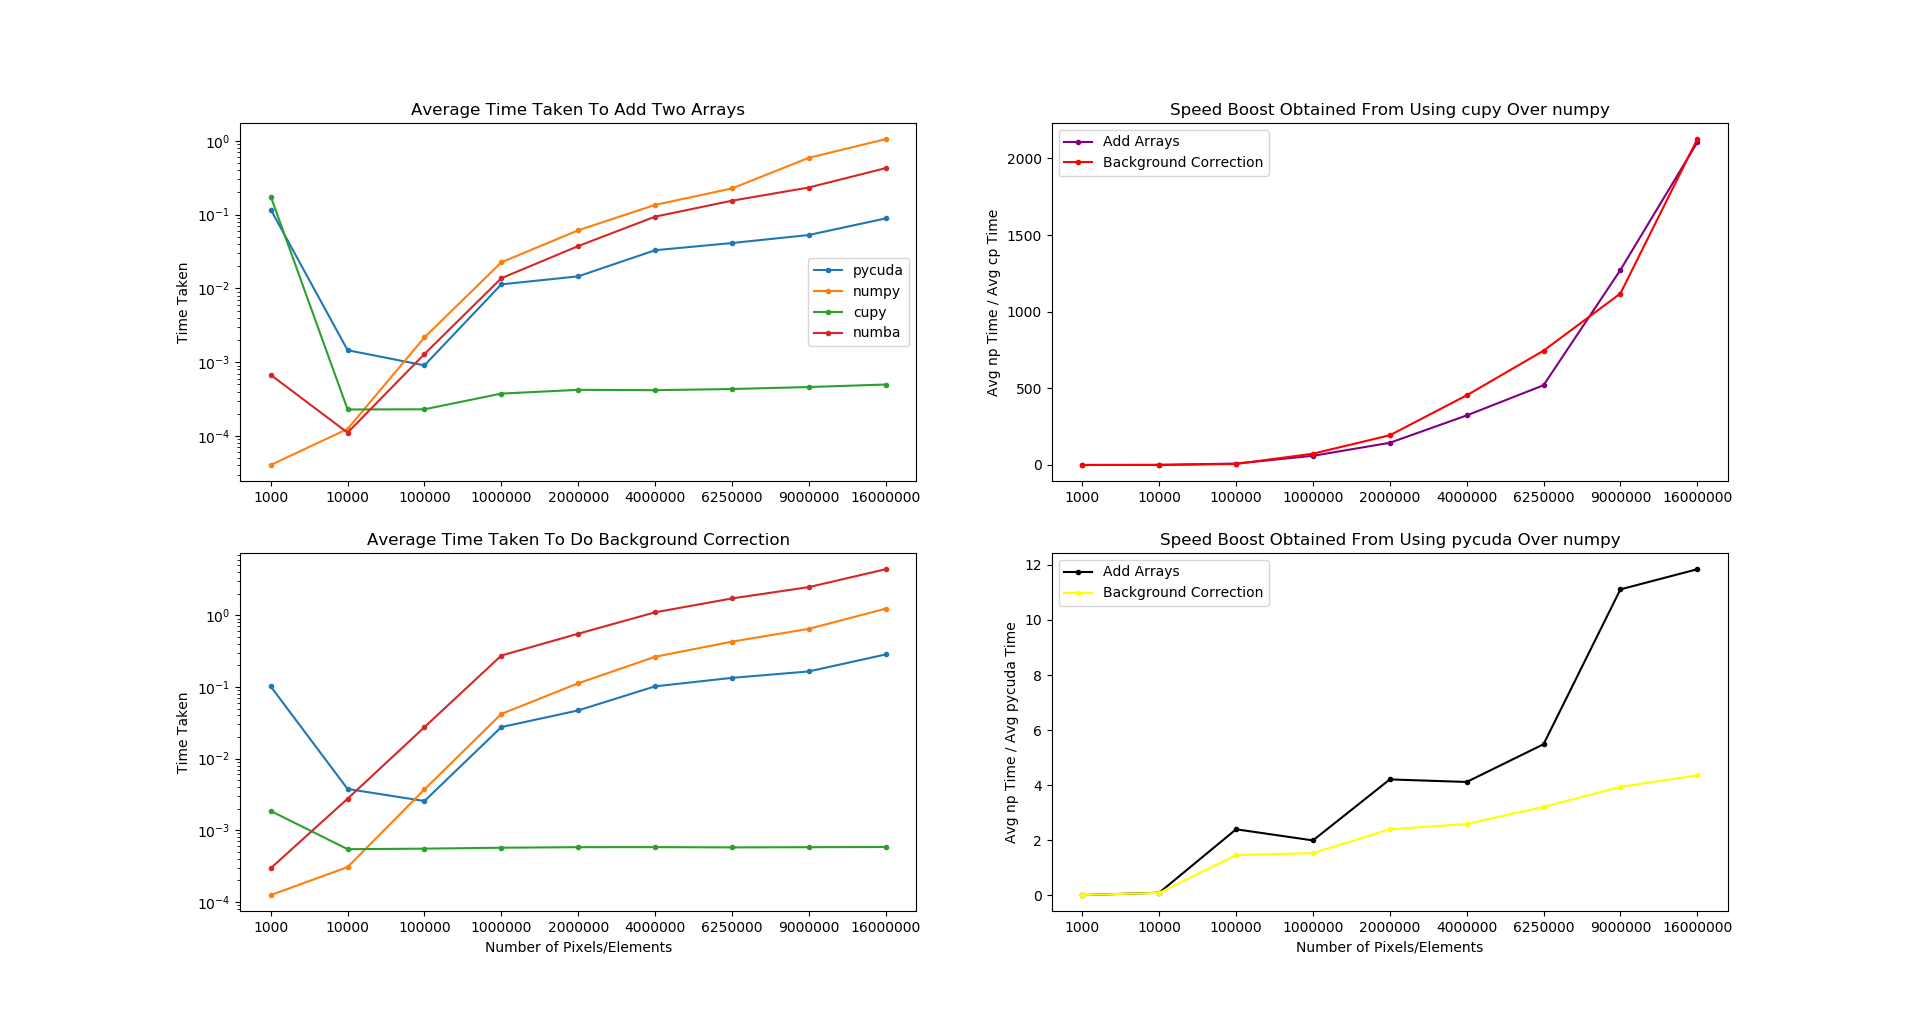
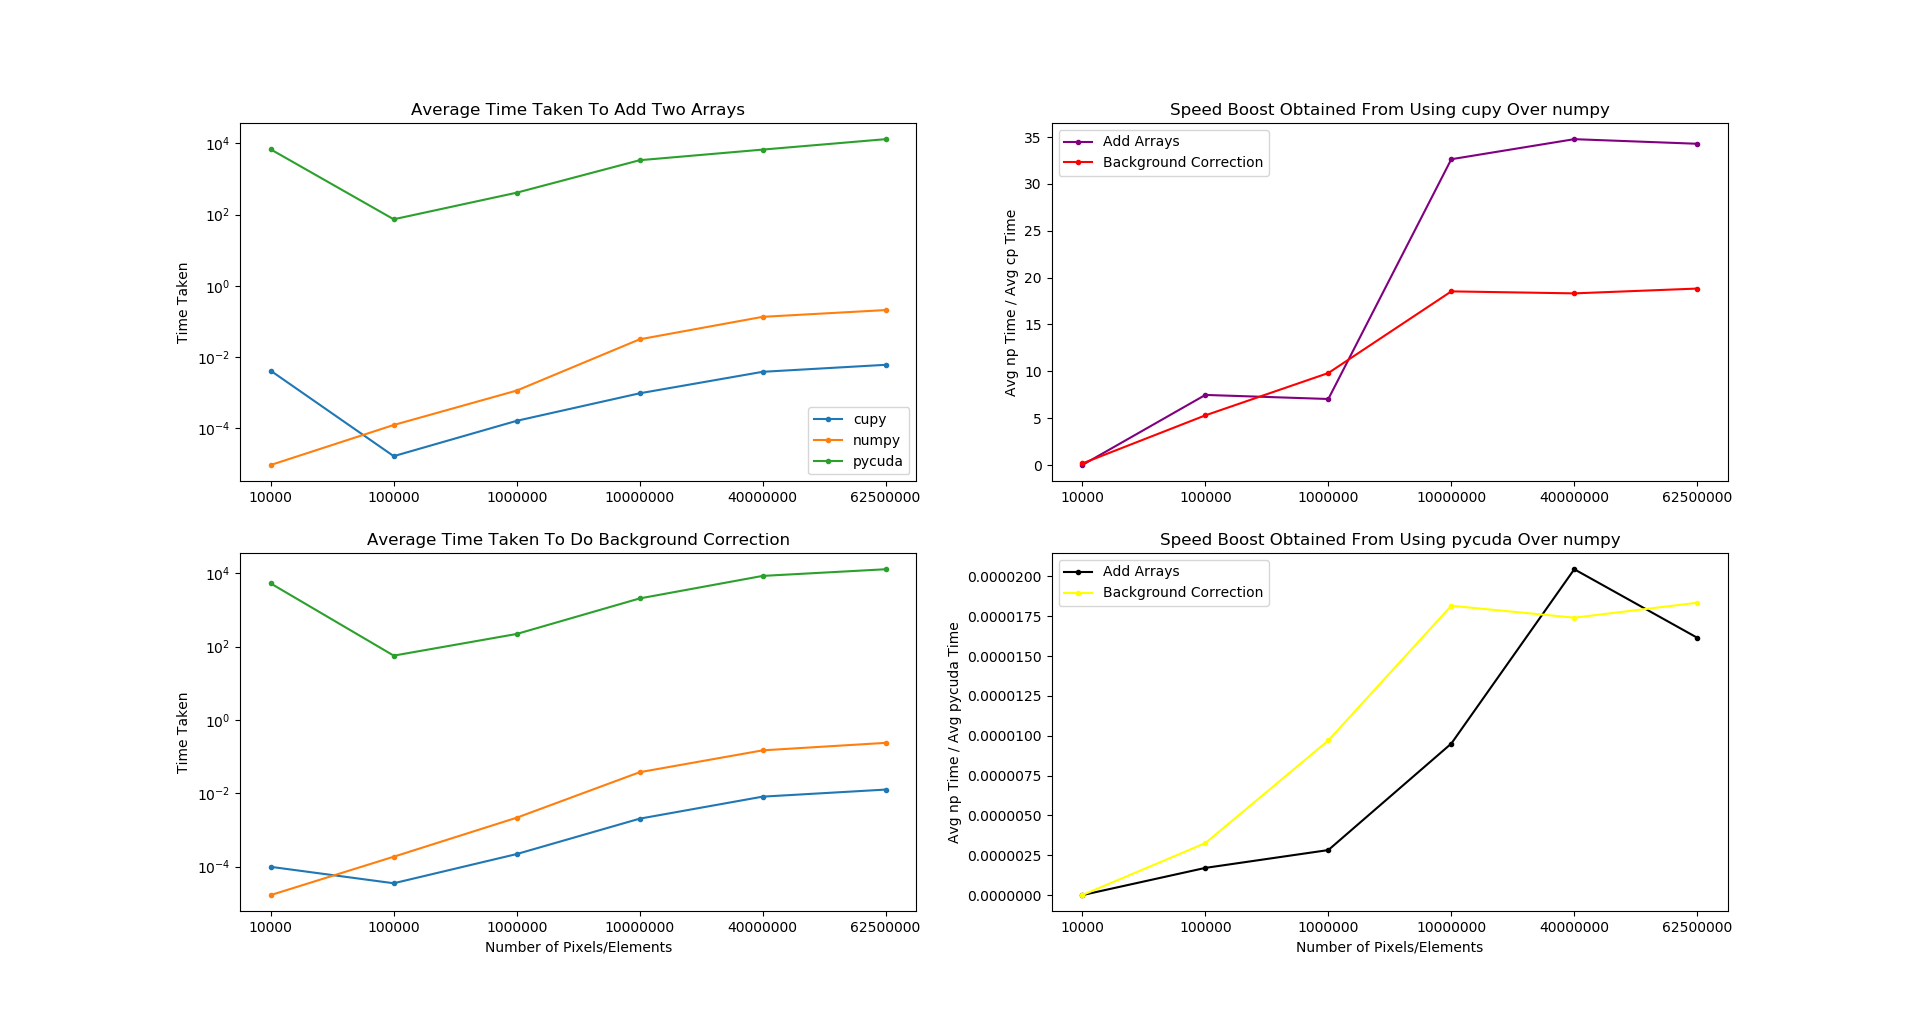
try except

diff --git a/gputest.py b/gputest.py
@@ -171,12 +171,11 @@ def cool_timer(func):
 
 # Create lists of array sizes and the total number of pixels/elements
 array_sizes = [
-    (10, 100, 10),
-    (100, 100, 10),
-    (100, 1000, 10),
-    (1000, 1000, 10),
-    (2000, 2000, 10),
-    (2500, 2500, 10),
+    (10, 100, 500),
+    (100, 100, 500),
+    (100, 1000, 500),
+    (1000, 1000, 500),
+    (1500, 1500, 500),
 ]
 total_pixels = [x * y * z for x, y, z in array_sizes]
 
@@ -208,10 +207,17 @@ for ExecutionClass in implementations:
         total_add = 0
         total_bc = 1
 
-        imaging_obj = ExecutionClass(size)
+        try:
 
-        avg_add = imaging_obj.timed_add_arrays(20)
-        avg_bc = imaging_obj.timed_background_correction(20)
+            imaging_obj = ExecutionClass(size)
+
+            avg_add = imaging_obj.timed_add_arrays(20)
+            avg_bc = imaging_obj.timed_background_correction(20)
+
+        except cp.cuda.memory.OutOfMemoryError as e:
+            print(e)
+            print("Unable to make GPU arrays with size", size)
+            exit()
 
         results[ExecutionClass]["Add Arrays"].append(avg_add)
         results[ExecutionClass]["Background Correction"].append(avg_bc)
